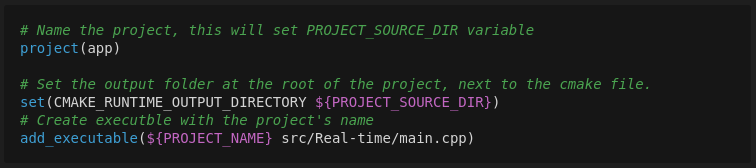
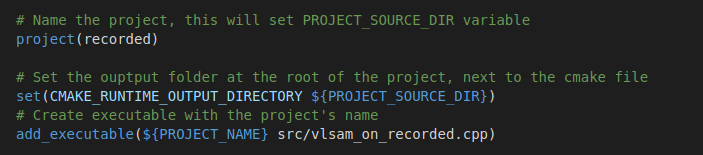
Stage

diff --git a/DVIC_web_page.md b/DVIC_web_page.md
@@ -16,7 +16,6 @@ This tutorial is made with concerns for novice people : all actions are explaine
 
 ## Skills & opportunity
 
-
 ### Required skills
 
 This tutorial assumes basic filesystem navigation Linux commands are known. 
@@ -58,11 +57,15 @@ This level shows how to develop a user-friendly and real-time vSLAM program:
 
 Finally, you will discover how to make your vSLAM program safier and more portable thanks to containerization:
 - Docker image building
+- docker-compose creation 
+- Container security
+- Graphic context piping
 
 @[split](2, end)
 
 
 # Level 0 - Setup development environment with *Linux*
+
 First, we need to install what will help us to create applications : ORB-SLAM3 and its dependencies. At the end of this level we will have a fully setup development environment. ORB-SLAM3 library and dependencies informations are available on [Zaragoza University SLAMlab's Github](https://github.com/UZ-SLAMLab/ORB_SLAM3). 
 
 ## Overview
@@ -86,7 +89,11 @@ Creating an ORB-SLAM3 based application requires Ubuntu 16.04 or 18.04 and sever
 
 *As Package* : download built library as apt package and install it.
 
-*Built from mod. source* alongside *modified* : source code already downloaded with ORB-SLAM3's github (in its *Thirdparty/* directory). Build and installation made with `build.sh`. This is because librarys' code is slightly modified by ORB-SLAM3 authors.  
+*Built from mod. source* alongside *modified* : source code already downloaded with ORB-SLAM3's github (in its *Thirdparty/* directory). Build and installation made with `build.sh`. This is because librarys' code is slightly modified by ORB-SLAM3 authors. 
+
+Note that `Realsense SDK` is only needed if we compile ORB-SLAM3 examples that use an Intel Realsense Camera (D435i model with these examples). 
+
+All setup commands used in this level are located in the [following file](https://github.com/LMWafer/vSLAM-implementation-tutorial). Here is explained what is happening when you run them. 
 
 @[split](2, end)
 
@@ -126,38 +133,39 @@ Here is the usual "build from github source" patern applied to **Pangolin**.
 
 # Level 1 - Create fast and robust application with *C++*
 
+Now an application can be coded and built within our fresh environment. We may want to start small with an off-line vSLAM session applied onto a video. This consists of retrieving `.mp4` frames and applying vSLAM tracking on them to get camera position over time.
+
 ## Step 1.1 Create application code
-Once everything is set up an application can be created. Let's enter the details of a real-time vSLAM run written in C++. 
 
 @[split](2, begin)
 
-1.Include needed libraries. OpenCV is used to resize image, the other deps are called internally by ORB-SLAM3. 
+1.Include needed libraries. OpenCV is used to get video's frames, other deps are called internally by ORB-SLAM3. 
 
-![include library](https://dvic.devinci.fr/api/v3/img/thumbnail/o64lmwem45m7cx8r2qnu80kjbwu7jh.png)
+![Include libraries](https://dvic.devinci.fr/api/v3/img/thumbnail/bfpvlsu6s602gqc2pkew8xdips2xy5.png)
 
 @[split](2, break)
 
-2.Select the camera. Realsense SDK handles multiple devices, here only the first available is used. If only one camera is connected, this will also work. 
+2.Open video file as an image stream.
 
-![Select camera](https://dvic.devinci.fr/api/v3/img/thumbnail/gi9o38gpp46d4tsdalrdwxvddzsqdb.png)
+![Open video](https://dvic.devinci.fr/api/v3/img/thumbnail/xdr7vnhp2v3ka9gqa5pks6q2oc49nh.png   )
 
 @[split](2, end)
 
 @[split](2, begin)
 
-3.Get infrared images. They are made available by creating a stream-like object that transfers them to a callback function. 
+3.Retrieve images one at a time and apply a resize operation while showing them. Here video framerate is 60fps, thus we get and show images at the same pace. 
 
-![Get image](https://dvic.devinci.fr/api/v3/img/thumbnail/c5yu0r0e1vqezziya4ba4qpwngr9jg.png)
+![Get image](https://dvic.devinci.fr/api/v3/img/thumbnail/f4ypqnnieeexqlikbowy876pnbfzsi.png)
 
 @[split](2, break)
 
-4.Compute the vSLAM for each frame. `arg[1]` and `arg[2]` come from the executable input argument: DBoW2 vocabulary and vSALM settings.
+4.Compute the vSLAM for each frame. `path_to_vocabulary` and `path_to_settings` come from the executable input argument: DBoW2 vocabulary and vSALM settings.
 
-![Compute SLAM](https://dvic.devinci.fr/api/v3/img/thumbnail/45atkyfuvuj0ger8nnmw68w66sso8f.png)
+![Compute SLAM](https://dvic.devinci.fr/api/v3/img/thumbnail/9ihqeh50vn9ffhqkhrwwvvdqf5i8mu.png)
 
 @[split](2, end)
 
-These are juste file fragment. Find the source code on [Github](https://github.com/UZ-SLAMLab/ORB_SLAM3/blob/master/Examples/Monocular/mono_realsense_D435i.cc)
+These are juste file fragments. Find the source code on [Github](https://github.com/LMWafer/vSLAM-implementation-tutorial). 
 
 ## Step 1.2 Build application
 Building the application would requires a very long command to indicate where each dependency is, which compiler to use etc. In order to speed up the process a CMakeLists gives all the parameters used. 
@@ -166,7 +174,7 @@ Building the application would requires a very long command to indicate where ea
 
 @[split](2, begin)
 
-1.Check and select compiler version. The cmake file looks for CXX11 or CXX0X version. Here is the 
+1.Check and select compiler version. The cmake file looks for CXX11 or CXX0X version.
 
 ![Compiler version](https://dvic.devinci.fr/api/v3/img/thumbnail/tv7t73130a9sra89bwnr91yt3v9ava.png)
 
@@ -181,7 +189,7 @@ Building the application would requires a very long command to indicate where ea
 
 3.Create an executable. 
 
-![Create executable](https://dvic.devinci.fr/api/v3/img/thumbnail/6afo1b88k0hg23p2howf6x1s5ejo35.png)
+![Create executable](https://dvic.devinci.fr/api/v3/img/thumbnail/ocr5xdq1h31ckk8lobzh082djz1p5g.png)
 
 @[split](2, break)
 
@@ -196,11 +204,34 @@ Building the application would requires a very long command to indicate where ea
 ![Link libraries](https://dvic.devinci.fr/api/v3/img/thumbnail/chbwh3iobrryt5zl1aewp3br4v60du.png)
 
 ### Build the executable
+
 Once the CMakeLists.txt is ready, a build folder can be created at the project's root to run this command inside
 
 ![Build executable](https://dvic.devinci.fr/api/v3/img/thumbnail/xeehiciqa0bofbuue1ci9u8yd1pimw.png)
 
+## Step 1.3 Run application
+
 # Level 2 - Add versatility with *Python bindings*
+
+Here we create a real-time vSLAM program that operates with a video stream insted of a file. Moreover, let's make it user-friendly with a Python frontend while keeping it efficient thanks to a C++ backend. Such feature required a bingind : creating an executable which behaves like a python module. We use [pybind11](https://pybind11.readthedocs.io/en/stable/) to produce such binary. 
+
+## Step 2.1 Create python bindings
+
+1.Include files used for binding: `System.h` for declaration of C++ functions we map to python and `pybind11.h` to provide us this ability. Namespace lines gives us acess to functions. `using namespace ORB_SLAM3` makes header's (`.h`) function directly callable by name (instead of having to type `ORB_SLAM3::function_name`). There is no need to include the whole `.cpp` source file since its compiled version (the `.so` we discussed earlier) will be linked to binding's binary ! 
+![Include libraries](https://dvic.devinci.fr/api/v3/img/thumbnail/gkqcfqz54ghcz5r82mnludhfr0fswa.png)
+
+2.Declare a python module named "pyorbslam3" with *pybind11* and give it a docstring. Add a python class named "System" based on `ORB_SLAM3::System` C++ class. Class constructor is describe just below. *pybind11* takes care of converting regular python types (such as str, int and bool) to their C++ counterpart. 
+![Declare module](https://dvic.devinci.fr/api/v3/img/thumbnail/58arwy4s30vel9zy9je0lars5m4ryi.png)
+
+![Track monocular](https://dvic.devinci.fr/api/v3/img/thumbnail/p0b3pxfk5b6zdl94u88u99ytrx6cux.png)
+
+![Bool functions](https://dvic.devinci.fr/api/v3/img/thumbnail/a3as4x0xeekdbjjlro6nklorgunt2b.png)
+
+## Step 2.2 Build bindings
+
+## Step 2.3 Create python program
+
+## Step 2.4 Run python file
 
 # Level 3 - Share your application to world with *Docker*
 
